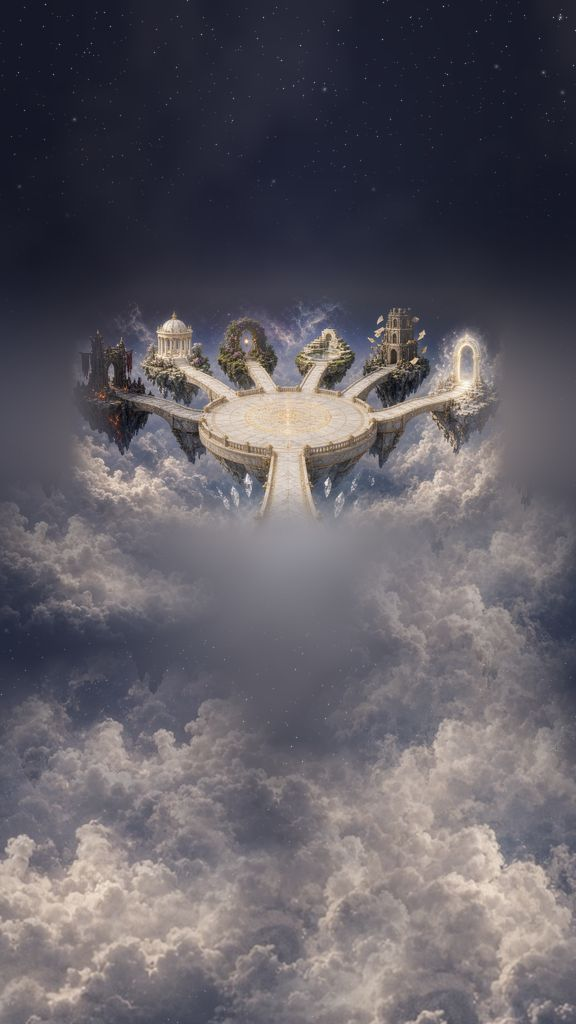
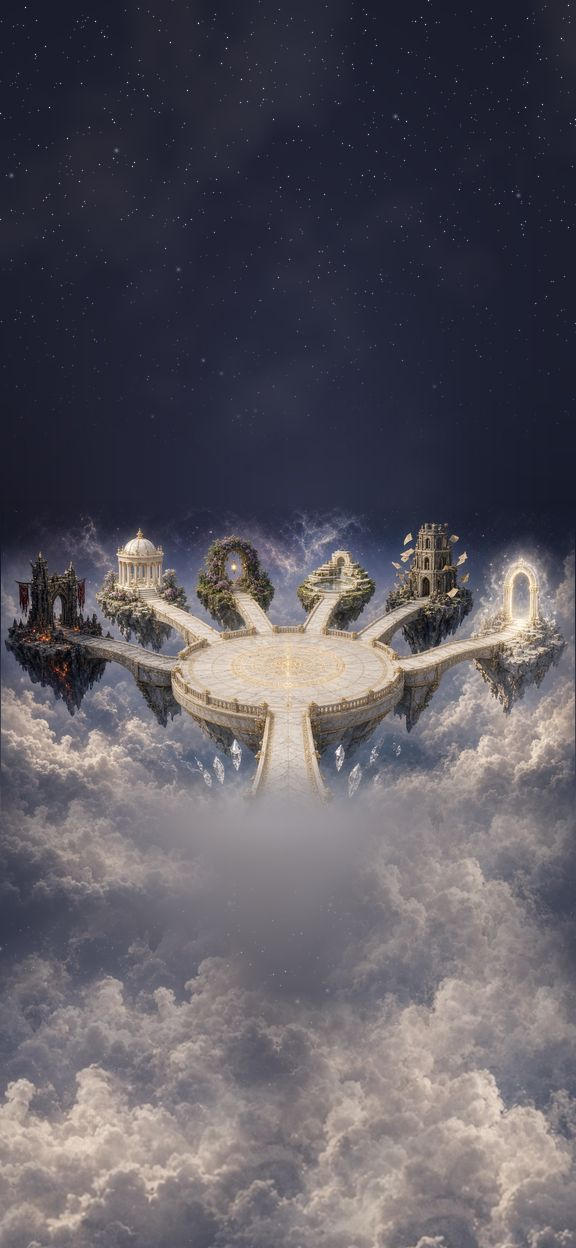
Aretoria v38: Axial hub gates back on a clean symmetric arc (plaza ellipse, each on its own bridge near the plaza); phone hub = 3×2 gate grid + Shadow above an unobstructed full-width painting (SW aretoria-v13)

diff --git a/aretoria.test.js b/aretoria.test.js
@@ -106,7 +106,7 @@ const noComments = (t) => t.replace(/\/\*[\s\S]*?\*\//g, '').replace(/^\s*\/\/.*
 }
 
 {
-  console.log('\n--- Standalone shell + SW aretoria-v12 ---');
+  console.log('\n--- Standalone shell + SW aretoria-v13 ---');
   const html = src('./index.html');
   const sw = src('./sw.js');
   const boot = src('./boot.js');
@@ -114,12 +114,12 @@ const noComments = (t) => t.replace(/\/\*[\s\S]*?\*\//g, '').replace(/^\s*\/\/.*
   assert('apple-mobile-web-app-title is Aretoria', /apple-mobile-web-app-title" content="Aretoria"/.test(html));
   assert('no MEC calendar / CaptainLog UI on page', !/month-grid|captains-log|panel-calendar|Modern Era Calendar/.test(html));
   assert('Irishnu mentioned as the Guide on landing', /Irishnu the Guide/.test(html));
-  assert('boot imports openAretoria and registers SW', /openAretoria/.test(boot) && /sw\.js\?v=12/.test(boot));
-  assert('SW is aretoria-v12', /aretoria-v12/.test(sw) && !/aretoria-v11/.test(sw) && !/mec-v/.test(sw) && !/captains-log/.test(sw));
+  assert('boot imports openAretoria and registers SW', /openAretoria/.test(boot) && /sw\.js\?v=13/.test(boot));
+  assert('SW is aretoria-v13', /aretoria-v13/.test(sw) && !/aretoria-v12/.test(sw) && !/mec-v/.test(sw) && !/captains-log/.test(sw));
   assert('SW precaches Aretoria code + shell', ['aretoria.js', 'aretoria-data.js', 'aretoria-art.js', 'aretoria.css', 'boot.js', 'shell.css'].every((f) => sw.includes(`./${f}`)));
   assert('SW does not precache portraits/guardians/realms', !/assets\/aretoria\/[^']*\.jpg/.test(noComments(sw)) && !/guardians\//.test(noComments(sw)) && !/realms\//.test(noComments(sw)));
-  assert('aretoria.js VERSION = 12', /const VERSION = 12;/.test(src('./aretoria.js')));
-  assert('asset queries use ?v=12', /\?v=12/.test(html) && /\?v=12/.test(boot) && !/\?v=27/.test(src('./aretoria.js')));
+  assert('aretoria.js VERSION = 13', /const VERSION = 13;/.test(src('./aretoria.js')));
+  assert('asset queries use ?v=13', /\?v=13/.test(html) && /\?v=13/.test(boot) && !/\?v=27/.test(src('./aretoria.js')));
   assert('manifest name Aretoria, scope /aretoria/', /"name": "Aretoria"/.test(src('./manifest.webmanifest')) && /"scope": "\/aretoria\/"/.test(src('./manifest.webmanifest')));
   assert('link back to Captain’s Log present', /modern-era-calendar/.test(html));
 }
@@ -136,14 +136,29 @@ const noComments = (t) => t.replace(/\/\*[\s\S]*?\*\//g, '').replace(/^\s*\/\/.*
 }
 
 {
-  console.log('\n--- Axial hub v12: art-anchored gates (no colour coding) ---');
+  console.log('\n--- Axial hub v13: desktop ellipse arc on the bridges, phone grid above the painting ---');
   const ajA = noComments(src('./aretoria.js'));
   const ids = ['courage', 'justice', 'humanity', 'temperance', 'wisdom', 'transcendence', 'shadow'];
-  assert('HUB_ART has desk + mob anchors for all 7 gates', ['desk', 'mob'].every((k) => ids.every((id) => Array.isArray(HUB_ART[k].gates[id]) && HUB_ART[k].gates[id].length === 2)));
-  assert('HUB_ART art sizes match the shipped JPEGs (1280×720 / 576×1024)', HUB_ART.desk.w === 1280 && HUB_ART.desk.h === 720 && HUB_ART.mob.w === 576 && HUB_ART.mob.h === 1024);
-  assert('desktop anchors run left→right Courage…Transcendence', ids.slice(0, 6).every((id, i, a) => i === 0 || HUB_ART.desk.gates[id][0] > HUB_ART.desk.gates[a[i - 1]][0]));
-  assert('mobile anchors run left→right Courage…Transcendence', ids.slice(0, 6).every((id, i, a) => i === 0 || HUB_ART.mob.gates[id][0] > HUB_ART.mob.gates[a[i - 1]][0]));
-  assert('layoutHub maps gates by realm name, Shadow on x = cx, orb on the rune', /art\.gates\[id\]/.test(ajA) && /id === 'shadow'\) x = w \/ 2/.test(ajA) && /toScreen\(art\.rune\)/.test(ajA));
+  const D = HUB_ART.desk.gates;
+  assert('HUB_ART.desk has an arch point for all 7 gates', ids.every((id) => Array.isArray(D[id]) && D[id].length === 2));
+  assert('HUB_ART art sizes match the shipped JPEGs (1280×720 / 576×1248)', HUB_ART.desk.w === 1280 && HUB_ART.desk.h === 720 && HUB_ART.mob.w === 576 && HUB_ART.mob.h === 1248);
+  assert('desktop gates run left→right Courage…Transcendence', ids.slice(0, 6).every((id, i, a) => i === 0 || D[id][0] > D[a[i - 1]][0]));
+  const pairs = [['courage', 'transcendence'], ['justice', 'wisdom'], ['humanity', 'temperance']];
+  assert('desktop arc is mirrored about the centre (x pairs sum to 1280, equal y)', pairs.every(([l, r]) => Math.abs(D[l][0] + D[r][0] - 1280) <= 2 && Math.abs(D[l][1] - D[r][1]) <= 2));
+  assert('desktop arc sweeps: outer pair lowest, inner pair highest', D.courage[1] > D.justice[1] && D.justice[1] > D.humanity[1]);
+  // all six on one ellipse centred on the plaza (cx 640): fit a, b from the outer + inner pair, the middle pair must lie on it
+  const e = (() => { const [x1, y1] = [D.humanity[0] - 640, D.humanity[1]], [x3, y3] = [D.courage[0] - 640, D.courage[1]]; const cy = 372;
+    const A1 = x1 * x1, B1 = (cy - y1) ** 2, A3 = x3 * x3, B3 = (cy - y3) ** 2; const v = (A3 - A1) / (A3 * B1 - A1 * B3), u = (1 - B1 * v) / A1; return { u, v, cy }; })();
+  const onE = ([x, y]) => (x - 640) ** 2 * e.u + (e.cy - y) ** 2 * e.v;
+  assert('justice/wisdom lie on the same plaza ellipse (±6%)', Math.abs(onE(D.justice) - 1) < 0.06 && Math.abs(onE(D.wisdom) - 1) < 0.06);
+  assert('gates slid back toward the plaza (not at the archways): Courage x ≥ 280, Transcendence x ≤ 1000, inner pair y ≥ 250', D.courage[0] >= 280 && D.transcendence[0] <= 1000 && D.humanity[1] >= 250 && D.temperance[1] >= 250);
+  assert('Shadow centred on the front bridge, orb on the rune', D.shadow[0] === 640 && D.shadow[1] > HUB_ART.desk.rune[1] + 100 && HUB_ART.desk.rune[0] === 640);
+  assert('mobile hub is a grid with a painting band rect', HUB_ART.mob.layout === 'grid' && Array.isArray(HUB_ART.mob.band) && HUB_ART.mob.band.length === 4 && HUB_ART.mob.band[3] > HUB_ART.mob.rune[1] && HUB_ART.mob.band[1] < HUB_ART.mob.rune[1]);
+  assert('phone grid order is the six realms left→right; Shadow the centred 7th tile', /const HUB_GRID_ORDER = \['courage', 'justice', 'humanity', 'temperance', 'wisdom', 'transcendence'\]/.test(src('./aretoria.js')) && /id === 'shadow' \? 2 : Math\.floor\(k \/ 3\)/.test(ajA) && /id === 'shadow' \? 1 : k % 3/.test(ajA));
+  assert('grid sits between the header and the painting band top', /\.ar-top'\)/.test(ajA) && /toScreen\(\[0, art\.band\[1\]\]\)/.test(ajA) && /classList\.toggle\('ar-hubgrid', mobile\)/.test(ajA));
+  assert('layoutHub maps desktop gates by realm name, Shadow on x = cx, orb on the rune', /art\.gates\[id\]/.test(ajA) && /id === 'shadow'\) x = w \/ 2/.test(ajA) && /toScreen\(art\.rune\)/.test(ajA));
+  const cssG = noComments(src('./aretoria.css'));
+  assert('phone grid tiles: ≥ 44px tap target, no bob, guardian names hidden ≤ 380px', /\.ar-hubgrid \.ar-gate \{ width: min\(31vw, 116px\); animation: none;/.test(cssG) && /@media \(max-width: 380px\), \(max-width: 699px\) and \(max-height: 720px\) \{[\s\S]*?\.ar-hubgrid \.ar-gate-sub \{ display: none; \}/.test(cssG));
   assert('no gold centre thread element in the hub', !/ar-thread|gold-thread|center-thread/.test(ajA + src('./aretoria.css')));
   const mobAx = new URL('./assets/aretoria/realms/mobile/axial.jpg', import.meta.url);
   assert('mobile axial backdrop exists and is < 200 KB', existsSync(mobAx) && statSync(mobAx).size < 200000);

diff --git a/aretoria.js b/aretoria.js
@@ -22,10 +22,10 @@ import {
   advisorsFor, advisorDialogue, advisorTitle, advisorKey, virtueBySlug,
   guardianRole, guardianLine, guardianPortraitPath, irishnuPortraitPath, realmBackdropPath, HUB_ART,
   mobileArtPath, pickArtPath, ART_MOBILE_MQ
-} from './aretoria-data.js?v=12';
-import { SCENES, figureSvg, FIGURE_FOR, gateGlyph } from './aretoria-art.js?v=12';
+} from './aretoria-data.js?v=13';
+import { SCENES, figureSvg, FIGURE_FOR, gateGlyph } from './aretoria-art.js?v=13';
 
-const VERSION = 12;
+const VERSION = 13;
 const MET_KEY = 'mec-aretoria:met-irishnu';
 const reducedMQ = window.matchMedia ? window.matchMedia('(prefers-reduced-motion: reduce)') : { matches: false };
 const reduced = () => reducedMQ.matches;
@@ -357,38 +357,63 @@ function wireIrishnuPortraitFallback() {
   });
 }
 
+/** Phone hub grid order (3×2), left→right, top→bottom; Shadow is the centred 7th tile. */
+const HUB_GRID_ORDER = ['courage', 'justice', 'humanity', 'temperance', 'wisdom', 'transcendence'];
+
 function layoutHub() {
   if (!root || S.view !== 'axial') return;
   const w = window.innerWidth, h = window.innerHeight;
-  const mobile = w < 700; // same breakpoint as ART_MOBILE_MQ, so the anchors match the art actually shown
+  const mobile = w < 700; // same breakpoint as ART_MOBILE_MQ, so the layout matches the art actually shown
   const art = mobile ? HUB_ART.mob : HUB_ART.desk;
   // background-size: cover + background-position posX/posY, then the .ar-layer scale(1.06) about the centre
   const s = Math.max(w / art.w, h / art.h);
   const ox = (w - art.w * s) * art.posX, oy = (h - art.h * s) * art.posY;
   const K = 1.06;
   const toScreen = ([ax, ay]) => [w / 2 + (ox + ax * s - w / 2) * K, h / 2 + (oy + ay * s - h / 2) * K];
-  const topSafe = mobile ? 64 : 70, botSafe = mobile ? 120 : 110;
   const gates = root.querySelectorAll('.ar-gate');
-  gates.forEach((g, i) => {
-    const id = g.dataset.realm;            // map by realm name, never by index
-    const arch = g.querySelector('.ar-gate-arch');
-    // the anchor is where the ARCH sits; the button box also holds the name/sub lines below it
-    const archDy = arch ? (g.offsetHeight / 2 - (arch.offsetTop + arch.offsetHeight / 2)) : 0;
-    const half = (arch ? arch.offsetWidth : 60) / 2 + 4;
-    let [x, y] = toScreen(art.gates[id] || art.gates.shadow);
-    if (id === 'shadow') x = w / 2;        // Shadow always on the horizontal centre line
-    x = Math.min(Math.max(x, half), w - half);
-    y = Math.min(Math.max(y + archDy, topSafe + g.offsetHeight / 2), h - botSafe - g.offsetHeight / 2 + (id === 'shadow' ? 40 : 0));
-    g.style.left = `${x}px`; g.style.top = `${y}px`;
-    g.style.animationDelay = `${-i * 0.9}s`;
-    // keep long names (e.g. TRANSCENDENCE) inside the viewport without moving the arch
-    g.querySelectorAll('.ar-gate-name, .ar-gate-sub').forEach((el) => {
-      el.style.translate = '';
-      const r = el.getBoundingClientRect();
-      const dx = r.left < 4 ? 4 - r.left : (r.right > w - 4 ? w - 4 - r.right : 0);
-      if (dx) el.style.translate = `${dx.toFixed(1)}px 0`;
+  root.classList.toggle('ar-hubgrid', mobile);
+  if (mobile) {
+    // Phones: the six realm gates as a neat 3×2 grid in the empty sky under the title, Shadow as a centred
+    // 7th tile below it; the painted band (art.band) stays unobstructed underneath.
+    const head = root.querySelector('.ar-top');   // title + ✕ button
+    const top0 = (head ? head.getBoundingClientRect().bottom : 60) + 2;
+    const bandTop = toScreen([0, art.band[1]])[1];
+    const rowH = Math.max((bandTop - 2 - top0) / 3, 70);
+    const colW = Math.min((w - 12) / 3, 124);
+    gates.forEach((g) => {
+      const id = g.dataset.realm;            // map by realm name, never by index
+      const k = HUB_GRID_ORDER.indexOf(id);
+      const row = id === 'shadow' ? 2 : Math.floor(k / 3), col = id === 'shadow' ? 1 : k % 3;
+      g.style.left = `${w / 2 + (col - 1) * colW}px`;
+      g.style.top = `${top0 + rowH * (row + 0.5)}px`;
+      g.style.animationDelay = '';
+      g.querySelectorAll('.ar-gate-name, .ar-gate-sub').forEach((el) => { el.style.translate = ''; });
     });
-  });
+  } else {
+    // Desktop / wide: the gates sit on a symmetric ellipse around the plaza, each on its own bridge where it
+    // leaves the plaza (art.gates = arch centres in image px), so the temples stay visible beyond them.
+    const topSafe = 70, botSafe = 110;
+    gates.forEach((g, i) => {
+      const id = g.dataset.realm;            // map by realm name, never by index
+      const arch = g.querySelector('.ar-gate-arch');
+      // the anchor is where the ARCH sits; the button box also holds the name/sub lines below it
+      const archDy = arch ? (g.offsetHeight / 2 - (arch.offsetTop + arch.offsetHeight / 2)) : 0;
+      const half = (arch ? arch.offsetWidth : 60) / 2 + 4;
+      let [x, y] = toScreen(art.gates[id] || art.gates.shadow);
+      if (id === 'shadow') x = w / 2;        // Shadow always on the horizontal centre line
+      x = Math.min(Math.max(x, half), w - half);
+      y = Math.min(Math.max(y + archDy, topSafe + g.offsetHeight / 2), h - botSafe - g.offsetHeight / 2 + (id === 'shadow' ? 40 : 0));
+      g.style.left = `${x}px`; g.style.top = `${y}px`;
+      g.style.animationDelay = `${-i * 0.9}s`;
+      // keep long names (e.g. TRANSCENDENCE) inside the viewport without moving the arch
+      g.querySelectorAll('.ar-gate-name, .ar-gate-sub').forEach((el) => {
+        el.style.translate = '';
+        const r = el.getBoundingClientRect();
+        const dx = r.left < 4 ? 4 - r.left : (r.right > w - 4 ? w - 4 - r.right : 0);
+        if (dx) el.style.translate = `${dx.toFixed(1)}px 0`;
+      });
+    });
+  }
   const orb = $('.ar-orb');
   if (orb) { const [x, y] = toScreen(art.rune); orb.style.left = `${x}px`; orb.style.top = `${y}px`; }
 }

diff --git a/aretoria.css b/aretoria.css
@@ -456,19 +456,27 @@ html.ar-lock, html.ar-lock body { overflow: hidden; }
   .ar-vname { font-size: .72rem; }
 }
 
-/* narrow phones (≤ 380px wide): the six art-anchored gates sit closer together — smaller arches, no sub-line */
-@media (max-width: 380px) {
-  .ar-gate { width: 64px; }
-  .ar-gate-arch { width: 42px; }
-  .ar-gate-name { font-size: .5rem; letter-spacing: 0; }
-  .ar-gate-sub { display: none; }
+/* phones: the hub gates are a 3×2 grid (+ Shadow as a centred 7th tile) in the sky under the title, and the
+   painted band below stays unobstructed (layoutHub sets .ar-hubgrid and places the tiles). Each tile is the
+   whole button (≥ 44px tap target). */
+@media (max-width: 699px) {
+  .ar-hubgrid .ar-gate { width: min(31vw, 116px); animation: none; translate: none; }
+  .ar-hubgrid .ar-gate-arch { width: 42px; margin: 0 auto; }
+  .ar-hubgrid .ar-gate-name { font-size: .62rem; letter-spacing: .06em; margin-top: 3px; }
+  .ar-hubgrid .ar-gate-sub { display: block; font-size: .66rem; line-height: 1.15; }
+  .ar-hubgrid .ar-gate-done { right: calc(50% - 26px); }
+  .ar-hubgrid .ar-orb { width: 44px; height: 44px; margin: -22px 0 0 -22px; }
+  .ar-hubgrid .ar-orb span { inset: -10px; }
+}
+/* narrow (≤ 380px) or short phones: slightly smaller tiles, guardian names hidden */
+@media (max-width: 380px), (max-width: 699px) and (max-height: 720px) {
+  .ar-hubgrid .ar-gate-arch { width: 40px; }
+  .ar-hubgrid .ar-gate-name { font-size: .58rem; letter-spacing: .03em; }
+  .ar-hubgrid .ar-gate-sub { display: none; }
 }
 
-/* short phones (e.g. 360×640): smaller gates, drop the host sub-line so the arc stays legible */
+/* short phones (e.g. 360×640): smaller host frames */
 @media (max-width: 699px) and (max-height: 720px) {
-  .ar-gate { width: 70px; }
-  .ar-gate-arch { width: 42px; }
-  .ar-gate-sub { display: none; }
   .ar-host.ar-guide { height: 18vh; }
   .ar-guide.ar-host-photo { width: min(26vw, 100px); bottom: 50px; }
   .ar-host.ar-host-photo, .ar[data-realm="shadow"] .ar-host.ar-host-photo { width: min(34vw, 140px); top: 64px; }

diff --git a/aretoria-data.js b/aretoria-data.js
@@ -620,8 +620,8 @@ HUB.realmBackdrop = RP('axial');
  * cover + position (posX/posY) + the .ar-layer scale(1.06), so gates stay on their paths at any size.
  */
 export const HUB_ART = {
-  desk: { w: 1280, h: 720, posX: 0.5, posY: 0.45, rune: [640, 366], gates: { courage: [132, 330], justice: [322, 250], humanity: [530, 258], temperance: [740, 255], wisdom: [935, 262], transcendence: [1155, 312], shadow: [640, 500] } },
-  mob: { w: 576, h: 1024, posX: 0.5, posY: 0.45, rune: [288, 416], gates: { courage: [113, 404], justice: [178, 376], humanity: [250, 379], temperance: [322, 378], wisdom: [390, 380], transcendence: [466, 397], shadow: [288, 517] } }
+  desk: { w: 1280, h: 720, posX: 0.5, posY: 0.45, rune: [640, 366], gates: { courage: [320, 350], justice: [434, 281], humanity: [558, 258], temperance: [722, 258], wisdom: [846, 281], transcendence: [960, 350], shadow: [640, 500] } },
+  mob: { w: 576, h: 1248, posX: 0.5, posY: 0.45, rune: [288, 665], layout: 'grid', band: [4, 514, 572, 788] }
 };
 /* HUB_ART:END */
 

diff --git a/boot.js b/boot.js
@@ -2,7 +2,7 @@
  * Aretoria standalone boot — landing shrine, then full portal overlay.
  * Shares localStorage keys with Captain's Log (same github.io origin).
  */
-import { openAretoria } from './aretoria.js?v=12';
+import { openAretoria } from './aretoria.js?v=13';
 
 const landing = document.getElementById('landing');
 const enterBtn = document.getElementById('enter-btn');
@@ -28,7 +28,7 @@ window.addEventListener('aretoria:closed', () => {
 });
 
 if ('serviceWorker' in navigator) {
-  navigator.serviceWorker.register('./sw.js?v=12').then((reg) => {
+  navigator.serviceWorker.register('./sw.js?v=13').then((reg) => {
     reg.update().catch(() => {});
   }).catch(() => {});
 }

diff --git a/index.html b/index.html
@@ -19,7 +19,7 @@
   <link rel="preconnect" href="https://fonts.googleapis.com" />
   <link rel="preconnect" href="https://fonts.gstatic.com" crossorigin />
   <link rel="stylesheet" href="https://fonts.googleapis.com/css2?family=Cinzel:wght@500;600&family=Cormorant+Garamond:ital,wght@0,500;0,600;1,500&display=swap" />
-  <link rel="stylesheet" href="shell.css?v=12" />
+  <link rel="stylesheet" href="shell.css?v=13" />
 </head>
 <body>
   <main id="landing" class="landing" aria-label="Aretoria entry">
@@ -41,6 +41,6 @@
       </p>
     </div>
   </main>
-  <script type="module" src="boot.js?v=12"></script>
+  <script type="module" src="boot.js?v=13"></script>
 </body>
 </html>

diff --git a/sw.js b/sw.js
@@ -1,5 +1,5 @@
-/* Aretoria standalone service worker — network-first app shell (aretoria-v12) */
-const CACHE = 'aretoria-v12';
+/* Aretoria standalone service worker — network-first app shell (aretoria-v13) */
+const CACHE = 'aretoria-v13';
 /* Portrait/shrine/guardian/realm images (assets/aretoria/) are deliberately NOT precached;
    they are fetched only when the portal is entered, then kept by the runtime cache. */
 const ASSETS = [
